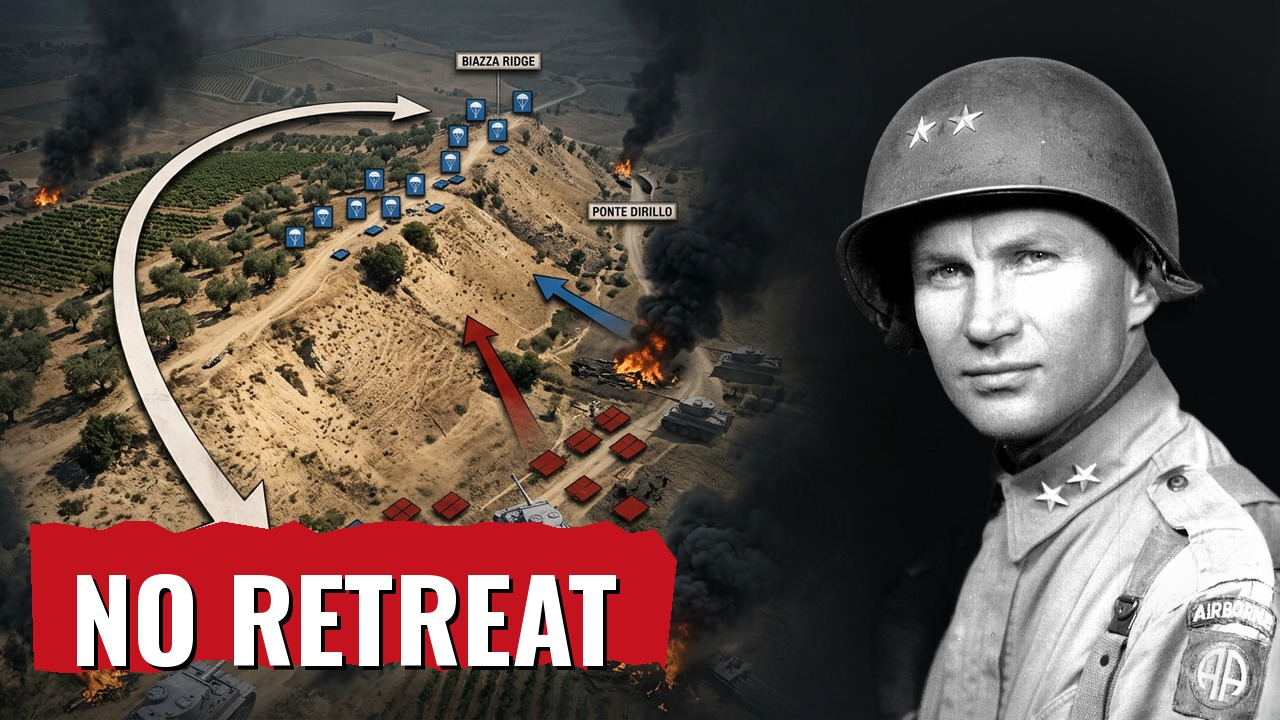
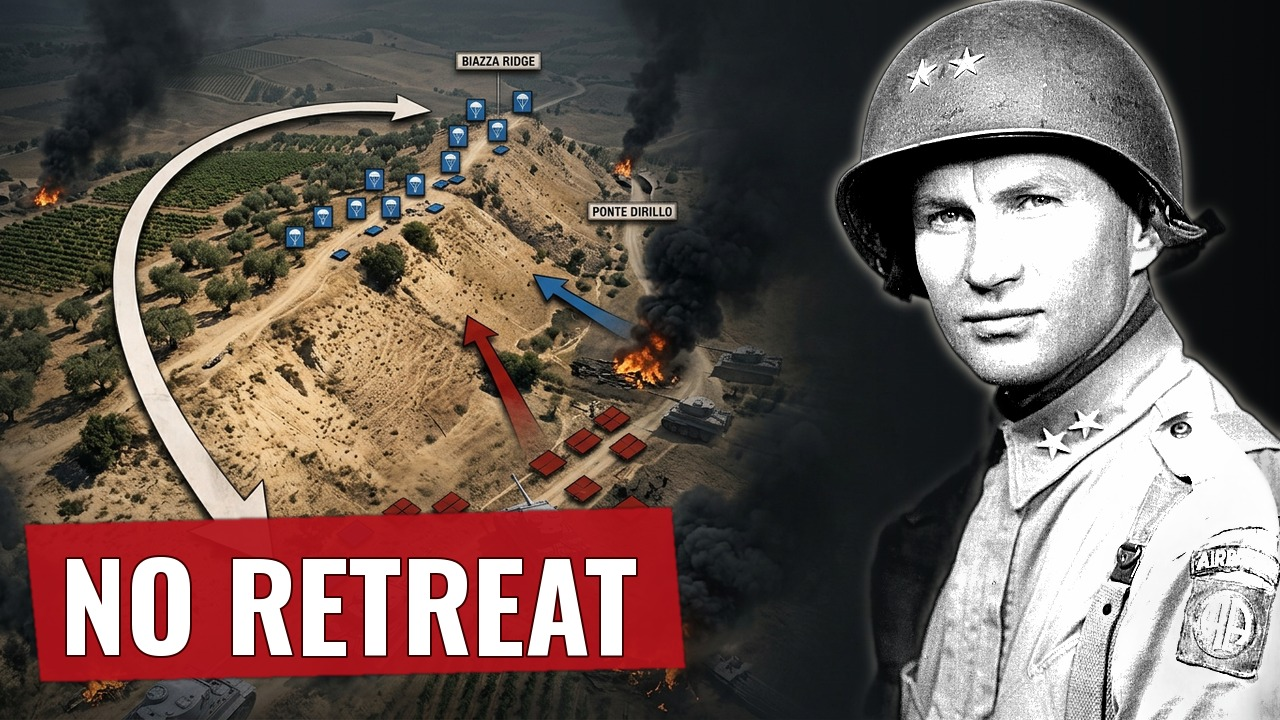
Gavin: thumbnails with the face-pop rule (contrast + rim); originals kept as *-before-facepop
Claude-Session: https://claude.ai/code/session_01WkfTXMijzYmHkT983gtuMT

diff --git a/gavin/tools/make_thumb.py b/gavin/tools/make_thumb.py
@@ -1,0 +1,43 @@
+"""Gavin thumbnails (HANDOVER 1b formula + FACE POP rule, STYLE_LOCK 6, 2026-10-26): vidIQ battlefield + Gavin's real PD photo cut-out on the right
+third with extra face contrast and a light rim against the map + red brush banner, 1-3 words.
+usage (from gavin/): python3 tools/make_thumb.py -> youtube/thumb/gavin-thumb-{A-no-retreat,B-tigers-incoming}.jpg (old ones kept as *-before-facepop.jpg)"""
+import os, shutil
+from PIL import Image, ImageDraw, ImageEnhance, ImageFilter, ImageFont, ImageChops
+
+W, H = 1280, 720
+F = "tools/oswald-latin-700-normal.ttf"
+T = "youtube/thumb"
+for n in ("gavin-thumb-A-no-retreat", "gavin-thumb-B-tigers-incoming"):
+    if not os.path.exists(f"{T}/{n}-before-facepop.jpg"):
+        shutil.copy(f"{T}/{n}.jpg", f"{T}/{n}-before-facepop.jpg")
+bg = Image.open(f"{T}/bg.png").convert("RGB").resize((W, H), Image.LANCZOS)
+cut = Image.open(f"{T}/gavin_cut.png").convert("RGBA"); cut = cut.crop(cut.getbbox())
+h = int(H * 1.02); w = int(cut.width * h / cut.height); cut = cut.resize((w, h), Image.LANCZOS)
+a = cut.split()[3]
+g = cut.convert("L")
+g = ImageEnhance.Contrast(g).enhance(1.45)            # FACE POP: stronger contrast
+g = ImageEnhance.Brightness(g).enhance(1.10)
+g = g.filter(ImageFilter.UnsharpMask(radius=2.2, percent=90, threshold=2))
+face = Image.merge("RGBA", (g, g, g, a))
+x0 = W - w + int(w * 0.08); y0 = H - h + 10
+shade = Image.new("RGBA", (W, H), (0, 0, 0, 0)); sd = ImageDraw.Draw(shade)
+for i in range(420):
+    sd.line([(W - 420 + i, 0), (W - 420 + i, H)], fill=(0, 0, 0, int(150 * i / 420)))
+base = bg.convert("RGBA"); base.alpha_composite(shade)
+# light rim against the map: a soft white edge glow just outside the silhouette
+big = Image.new("L", (W, H), 0); big.paste(a, (x0, y0))
+rim = ImageChops.subtract(big.filter(ImageFilter.GaussianBlur(7)), big.filter(ImageFilter.GaussianBlur(1))).point(lambda v: min(255, v * 2))
+glow = Image.new("RGBA", (W, H), (255, 245, 225, 0)); glow.putalpha(rim.point(lambda v: int(v * 0.55)))
+base.alpha_composite(glow); base.alpha_composite(face, (x0, y0))
+
+def banner(text, out, size):
+    im = base.copy(); dr = ImageDraw.Draw(im); ft = ImageFont.truetype(F, size)
+    tw = dr.textlength(text, font=ft); bx, by = 34, H - size - 92
+    brush = Image.new("RGBA", (W, H), (0, 0, 0, 0)); bd = ImageDraw.Draw(brush)
+    bd.polygon([(bx - 10, by + 14), (bx + tw + 60, by - 4), (bx + tw + 74, by + size + 40), (bx + 6, by + size + 54)], fill=(176, 18, 26, 240))
+    im.alpha_composite(brush.filter(ImageFilter.GaussianBlur(1.2)))
+    dr.text((bx + 26, by + 4), text, font=ft, fill=(255, 255, 255), stroke_width=2, stroke_fill=(60, 0, 0))
+    im.convert("RGB").save(out, quality=92); print(out)
+
+banner("NO RETREAT", f"{T}/gavin-thumb-A-no-retreat.jpg", 118)
+banner("TIGERS INCOMING", f"{T}/gavin-thumb-B-tigers-incoming.jpg", 96)
